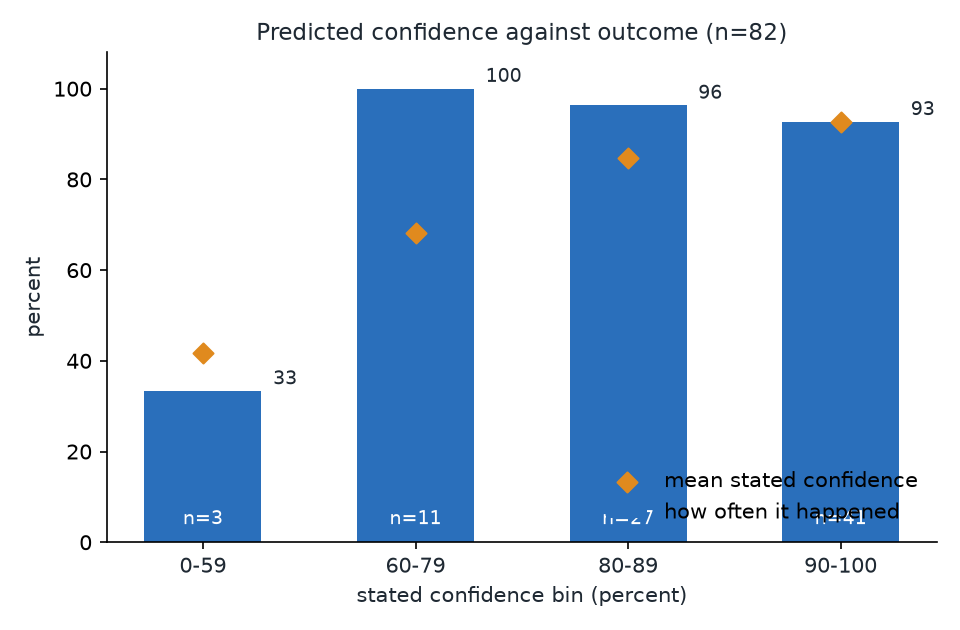
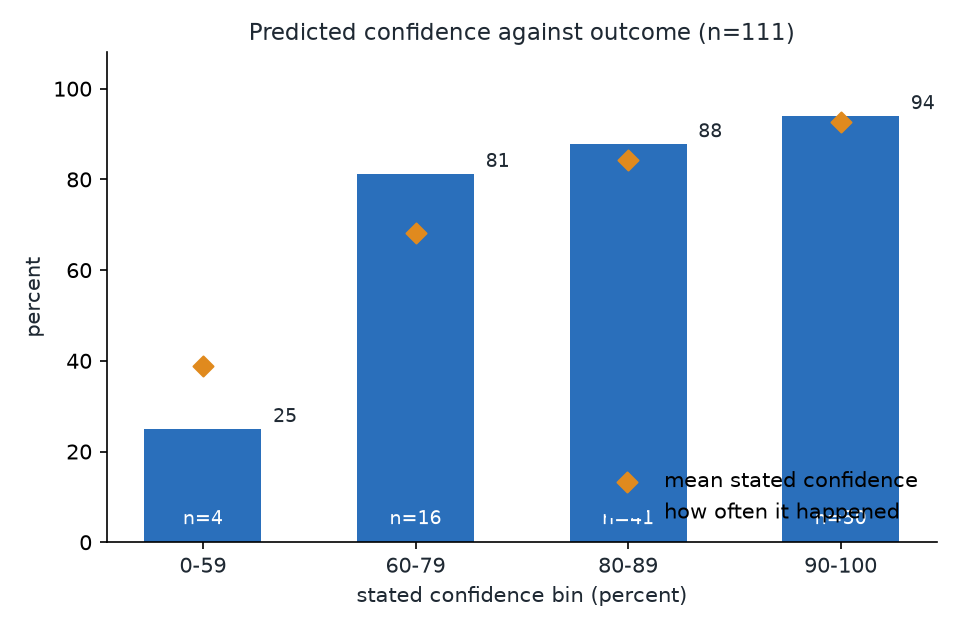
Record Feather steps in the scorecard, update README after the first hardware run
Adds 29 scorecard rows for steps 15 to 21 including seven misses, notes on the predictions left out, and README text saying the blink test runs on a physical Feather M0 while the vector replay has only run on the emulated Cortex-M3.

AI-assisted: drafted with Claude, checked by the author.
Claude-Session: https://claude.ai/code/session_01RGFvSa7JT2gKyScyCs7gux

diff --git a/README.md b/README.md
@@ -12,12 +12,12 @@ This project was drafted with Claude (Anthropic) and checked by the author. Ever
 
 - Replay: a small C program drives the real C core under the undefined-behaviour sanitiser and writes 10680 rows of inputs and outputs. The Rust port reproduces every row exactly, on the PC and on an emulated Cortex-M3 (QEMU lm3s6965evb).
 - Mutation check: 10 deliberate bugs were put into the Rust port one at a time. The replay test with random vectors alone caught 8 of 10. Adding boundary vectors for the ADC limits raised that to 10 of 10 (figures/mutation_kills.png).
-- Predictions: before each run a prediction with a percentage was written down and scored afterwards from the pasted output. 82 predictions so far: 78 hit and 4 missed (95.1 percent hit). The misses are kept in docs/scorecard.csv, and figures/calibration.png compares stated confidence with what happened.
+- Predictions: before each run a prediction with a percentage was written down and scored afterwards from the pasted output. 111 predictions so far: 100 hit and 11 missed (90.1 percent hit). The misses are kept in docs/scorecard.csv, and figures/calibration.png compares stated confidence with what happened.
 
 ## Limits
 
 - The vectors come from the C code, so they show that the two agree. They do not show that the controller design is right.
-- QEMU is not cycle accurate, so there are no timing results here. The code has not been run on a physical board yet.
+- QEMU is not cycle accurate, so there are no timing results here. A blink test (feather-app) runs on a physical Adafruit Feather M0, but the vector replay has only run on the emulated Cortex-M3 so far.
 - The mutants are 10 hand-made changes, not the output of an exhaustive mutation tool.
 - The scorecard is small and scored by hand, so treat the hit rate as a record of this project only.
 
@@ -26,6 +26,7 @@ This project was drafted with Claude (Anthropic) and checked by the author. Ever
 - src/lib.rs: the port (Pid, Sup, Control) with unit tests
 - tests/replay.rs: replays vectors/vectors.csv against the port
 - qemu-app/: bare-metal Cortex-M3 replay of the same vectors
+- feather-app/: Feather M0 (SAMD21) blink firmware, flashed with the bossac that ships with the Arduino IDE
 - vectors/: generator built from the C core, and the vectors
 - tools/: scripts for the blob, mutation check, scorecard totals, figures and this README
 - results/, figures/, docs/: mutation results, figures, scorecard

diff --git a/README.tmpl.md b/README.tmpl.md
@@ -17,7 +17,7 @@ This project was drafted with Claude (Anthropic) and checked by the author. Ever
 ## Limits
 
 - The vectors come from the C code, so they show that the two agree. They do not show that the controller design is right.
-- QEMU is not cycle accurate, so there are no timing results here. The code has not been run on a physical board yet.
+- QEMU is not cycle accurate, so there are no timing results here. A blink test (feather-app) runs on a physical Adafruit Feather M0, but the vector replay has only run on the emulated Cortex-M3 so far.
 - The mutants are {{mutants}} hand-made changes, not the output of an exhaustive mutation tool.
 - The scorecard is small and scored by hand, so treat the hit rate as a record of this project only.
 
@@ -26,6 +26,7 @@ This project was drafted with Claude (Anthropic) and checked by the author. Ever
 - src/lib.rs: the port (Pid, Sup, Control) with unit tests
 - tests/replay.rs: replays vectors/vectors.csv against the port
 - qemu-app/: bare-metal Cortex-M3 replay of the same vectors
+- feather-app/: Feather M0 (SAMD21) blink firmware, flashed with the bossac that ships with the Arduino IDE
 - vectors/: generator built from the C core, and the vectors
 - tools/: scripts for the blob, mutation check, scorecard totals, figures and this README
 - results/, figures/, docs/: mutation results, figures, scorecard

diff --git a/docs/scorecard_notes.md b/docs/scorecard_notes.md
@@ -1,0 +1,8 @@
+# Scorecard notes
+
+Predictions are scored from the pasted output of each run. A prediction whose check never ran is left out of docs/scorecard.csv.
+
+Left out so far:
+
+- BY, BZ, CA, CB (step 16): the first Feather build failed at the linker, so the image checks never ran. They were re-predicted as CE, CF, CG, CH after the fix.
+- CN (step 18) and CU (step 20): the LED prediction needs a flash, and none happened in those runs. CZ (step 21) is the scored version.
